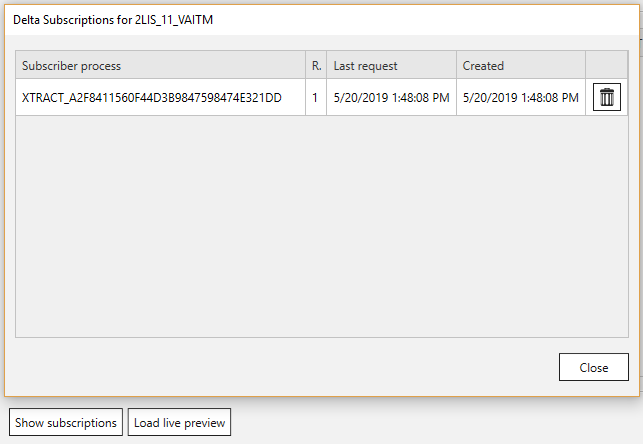
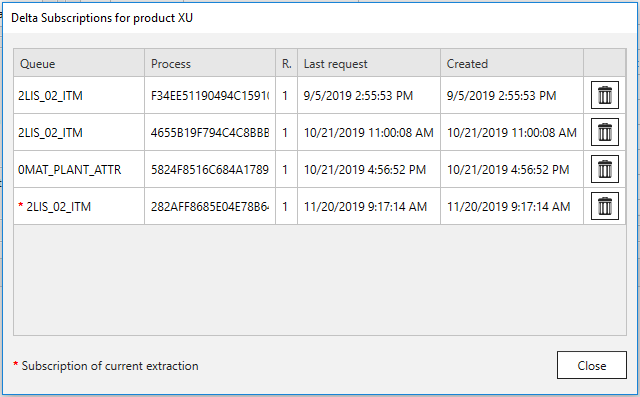
Include:EN:ODP Settings

Changed region(s): [[0.0, 0.0, 1.0, 1.0], [0.9062, 0.1209, 0.9375, 0.1511]]

diff --git a/_includes/_content/en/odp/odp-settings-subscriptions.md b/_includes/_content/en/odp/odp-settings-subscriptions.md
@@ -1,9 +1,14 @@
-**Show Subscriptions**<br/>
-Click on Show Subscriptions to find information about the subscriber. That includes: 
-- Subscriber Name: The Subscriber Name is based on the name of the machine, where the extraction is running on. This means that extractions on different machines (unless the names are the same) will have different Subscriber Names and deltas. The product name is also included in the subscription name. This might be helpfut for monitoring in SAP and to avoid some confusion.
-- Last request timestamp
-- Creation timestamp 
-To delete the subscription click on the Delete icon on the right side. <br/><br/>
+**Show Subscriptions / Show active subscriptions**<br/>
+Click on the button *Show Subscriptions*/*Show active subscriptions* to display more details about the subscriber process:  
+- **Queue**: Shows the technical name of all subscriptions for a specific product (e.g. Xtract Universal).<br>
+A subscription is bound to a specific product and the ODP component the init was originally triggered from. An ODP data provider, such as 2LIS_02_ITM, can have multiple subscriptions. The subscription that refers to the ODP component at hand is marked with a red asterisks.
+- **Process**: Technical name of Subscription (see SAP transaction ODQMON)
+- **R. (number of requests)**: Number of executed delta requests
+- **Last request**: timestamp of last delta request
+- **Created**: timestamp of init request
+
+To delete the subscription click on the *dustbin* icon on the right hand side. <br/><br/>
+
 ![ODP Subscriber](/img/content/odp/odp-settings-02.png){:class="img-responsive"}
 
 
